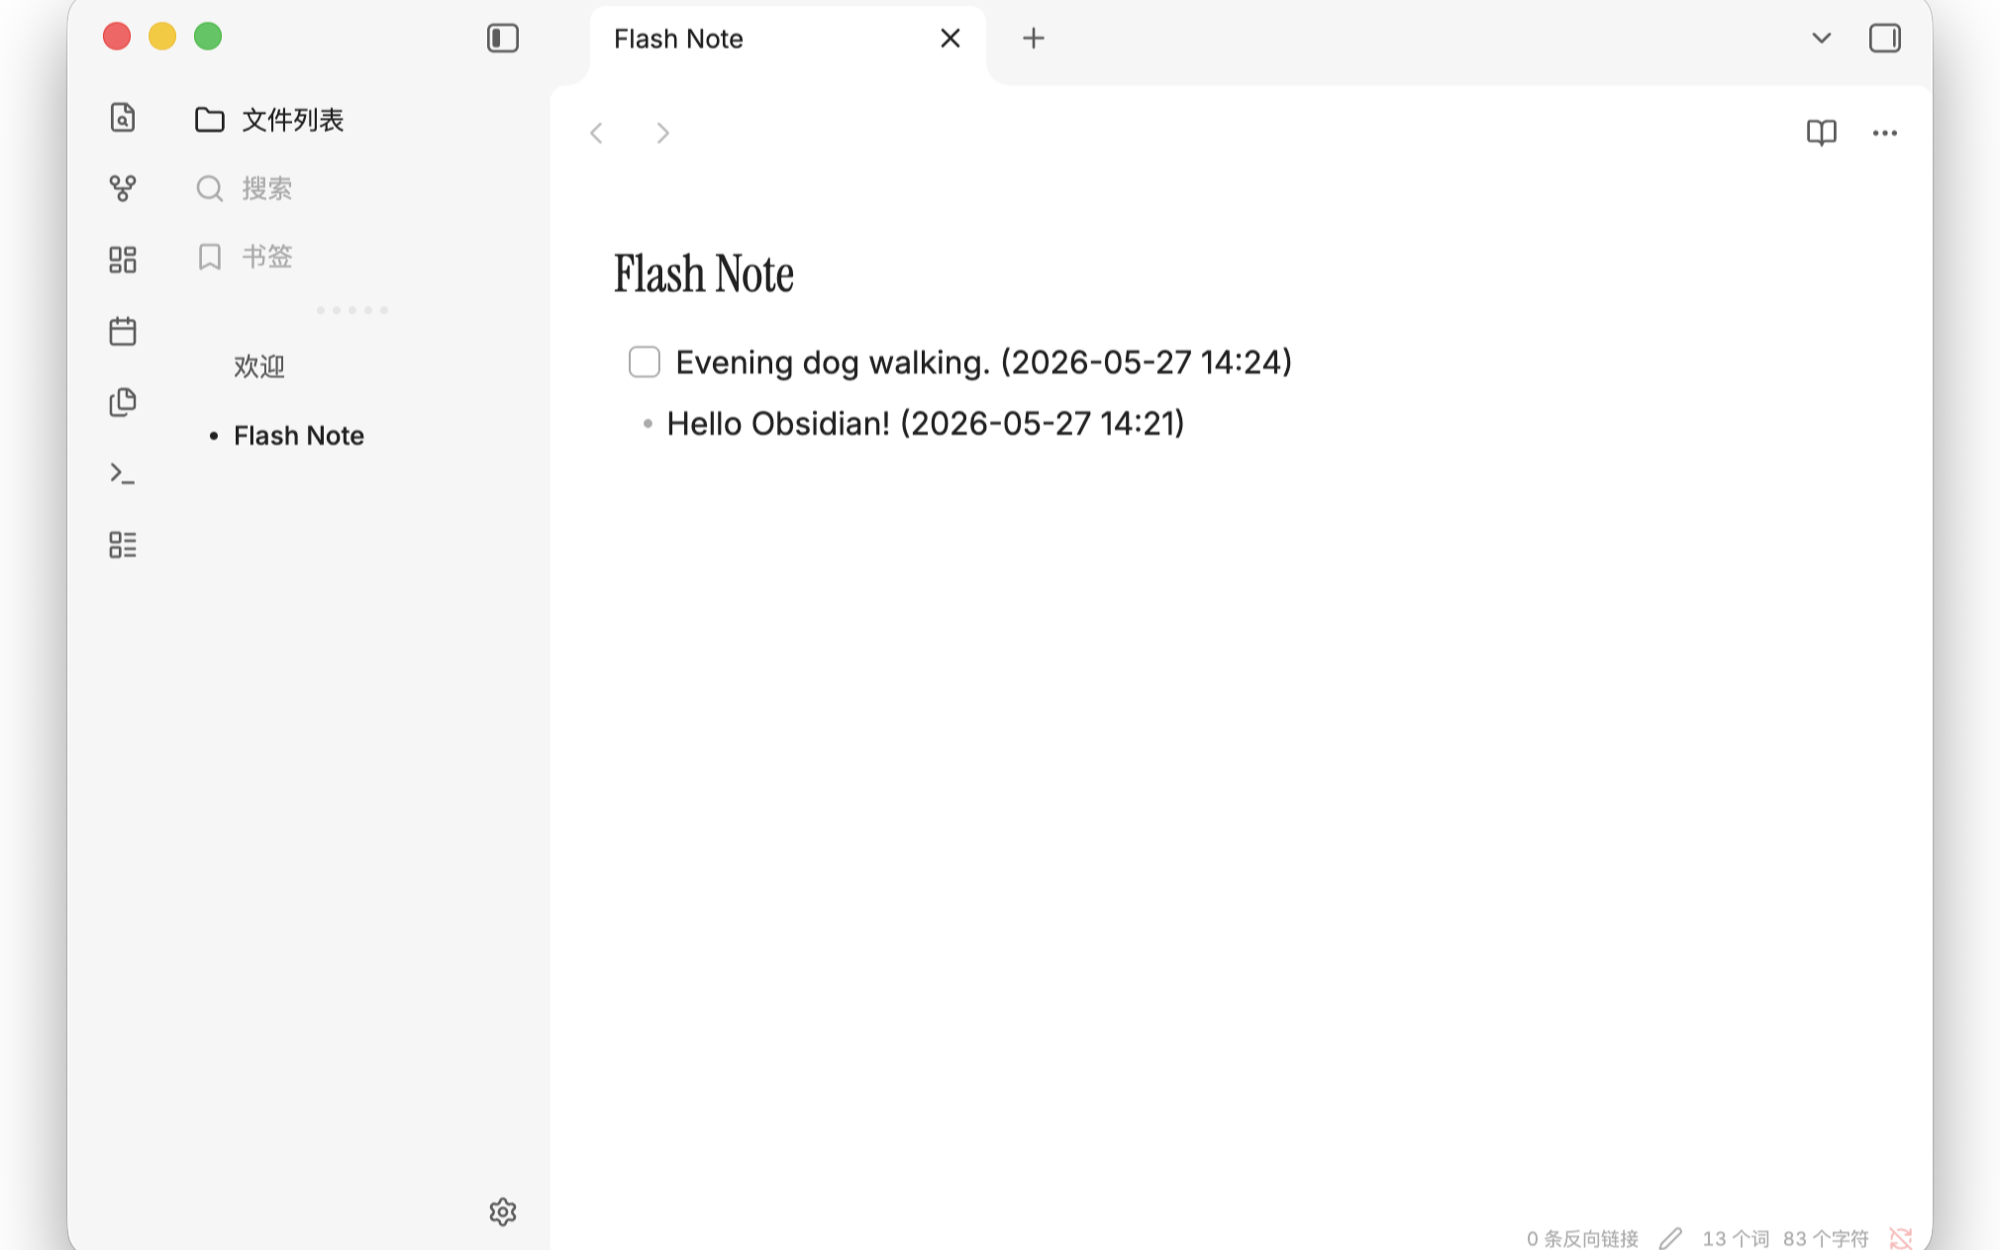
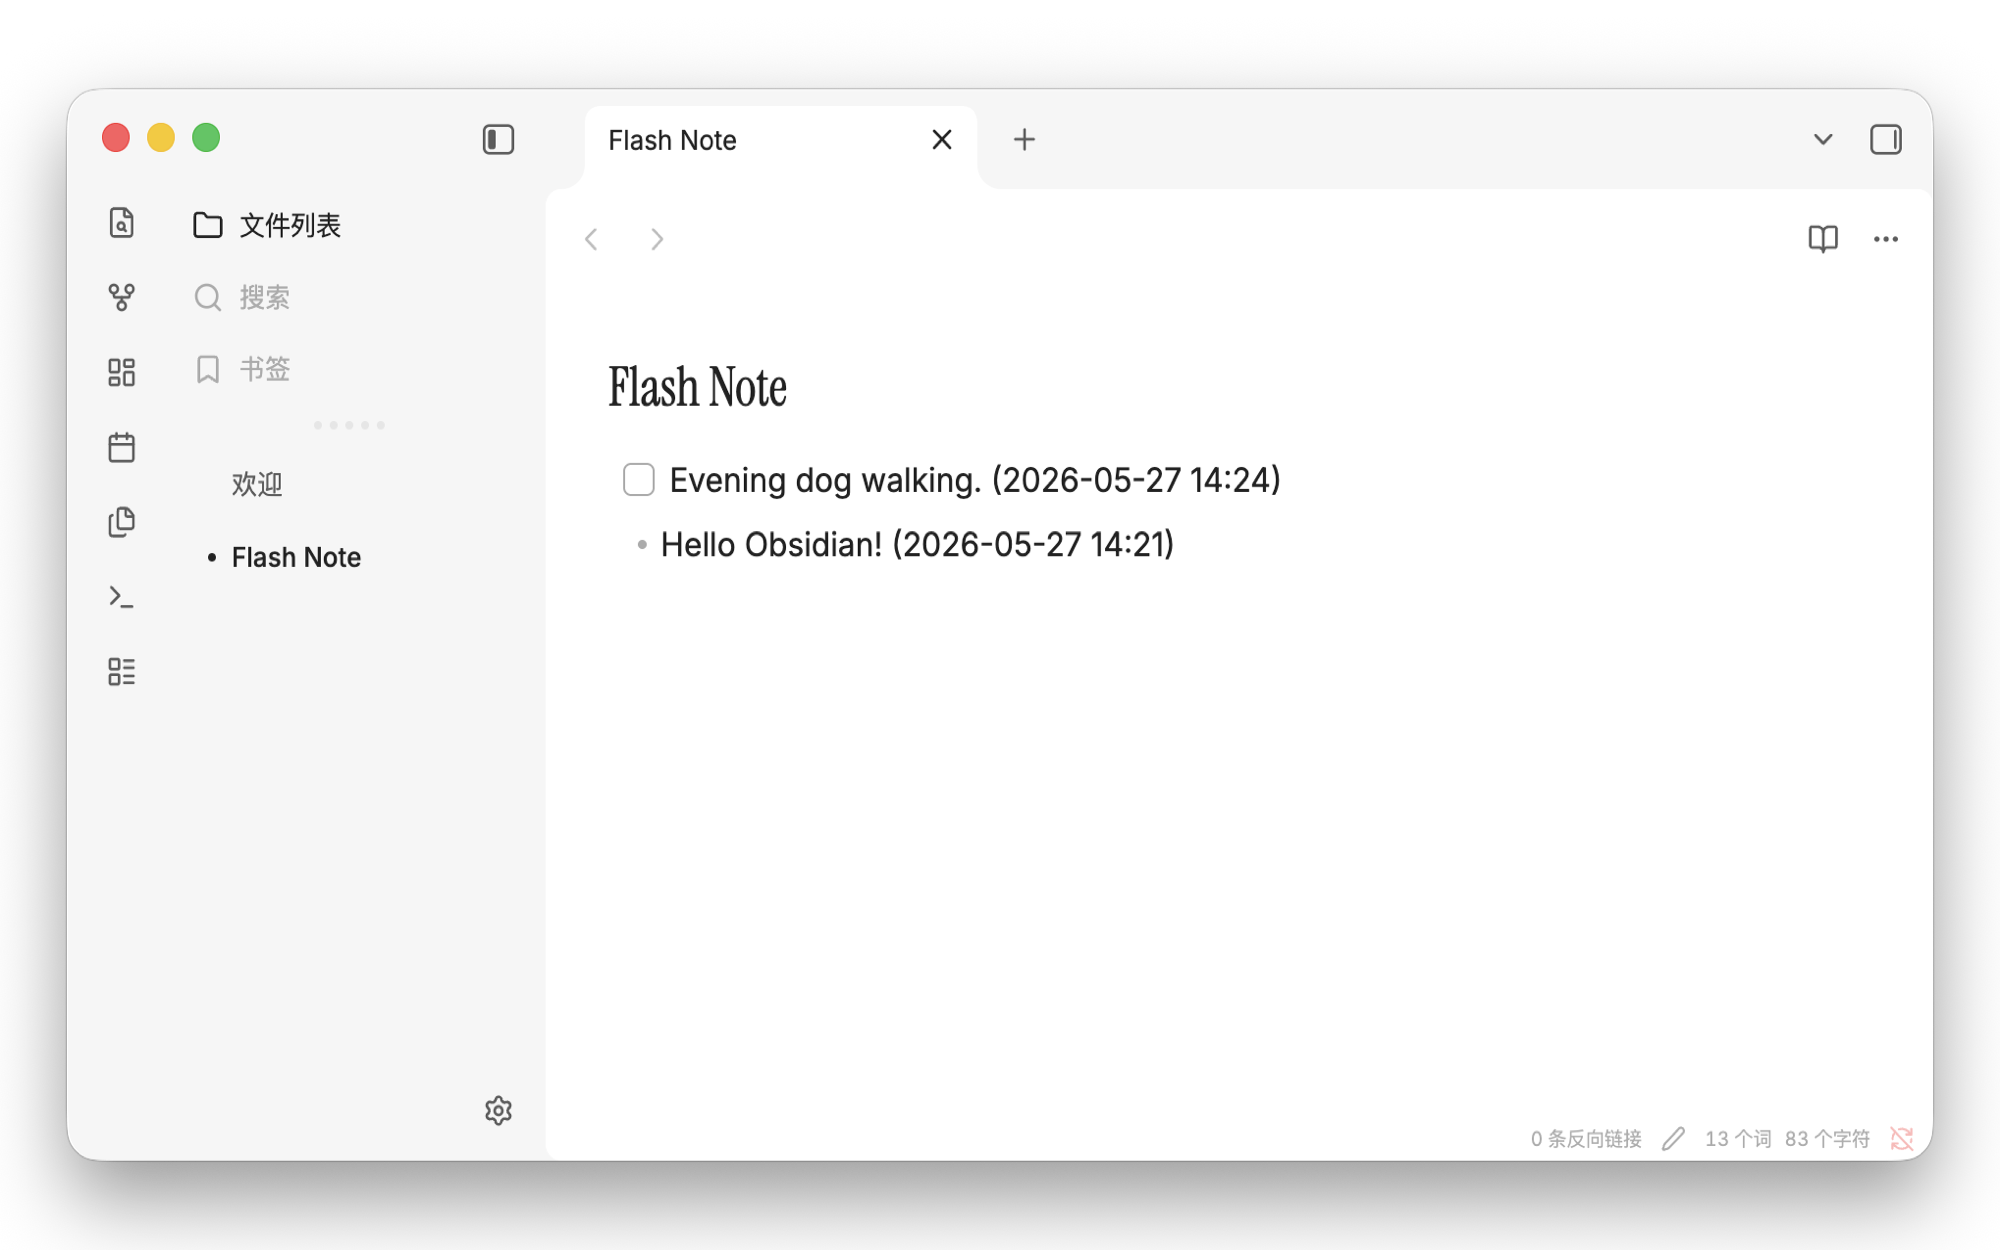
Update obsidian-quickadd extension
- chore: resize preview image
- docs: improve README

diff --git a/extensions/obsidian-quickadd/README.md b/extensions/obsidian-quickadd/README.md
@@ -1,14 +1,24 @@
-# Obsidian QuickAdd Extension for Raycast
+<p align="center">
+  <img src="assets/icon.png" height="128" width="128">
+  <h1 align="center">Obsidian QuickAdd Extension for Raycast</h1>
+</p>
 
-Send text to Obsidian QuickAdd from Raycast. Install and configure [QuickAdd](https://quickadd.obsidian.guide) first.
+⚡ Run [Obsidian QuickAdd](https://quickadd.obsidian.guide) choices from Raycast. Search choices across your vaults, enter text, and send it straight into QuickAdd.
 
 ## Features
 
 - Automatically detects Obsidian vaults from the macOS Obsidian configuration
-- Reads QuickAdd choices from all detected vaults
-- Supports sending text from Raycast Root Search through fallback commands
-- Lets you edit the text before sending it to a QuickAdd choice
+- Reads enabled QuickAdd choices from all detected vaults
+- Supports searching and running QuickAdd choices directly from Raycast
+- Supports sending selected text from Raycast Root Search through fallback commands
+- Lets you edit text before sending it to a QuickAdd choice
 - Supports custom QuickAdd variable names such as `{{VALUE:value}}`
+- Supports an optional fixed vault path when automatic detection is not enough
+
+## Commands
+
+- `Search QuickAdd Choices`: search available QuickAdd choices and enter text before running one.
+- `Send to QuickAdd`: send text from Raycast Root Search or a command argument directly to a QuickAdd choice.
 
 ## Author
 
@@ -18,7 +28,12 @@ Send text to Obsidian QuickAdd from Raycast. Install and configure [QuickAdd](ht
 
 ## Preview
 
+<img src="metadata/obsidian-quickadd-1.png">
+<img src="metadata/obsidian-quickadd-2.png">
+<img src="metadata/obsidian-quickadd-3.png">
+<img src="metadata/obsidian-quickadd-4.png">
+<img src="metadata/obsidian-quickadd-5.png">
+
 ## Portal
 
 - [Raycast Obsidian QuickAdd](https://github.com/raycast/extensions/tree/main/extensions/obsidian-quickadd)
-